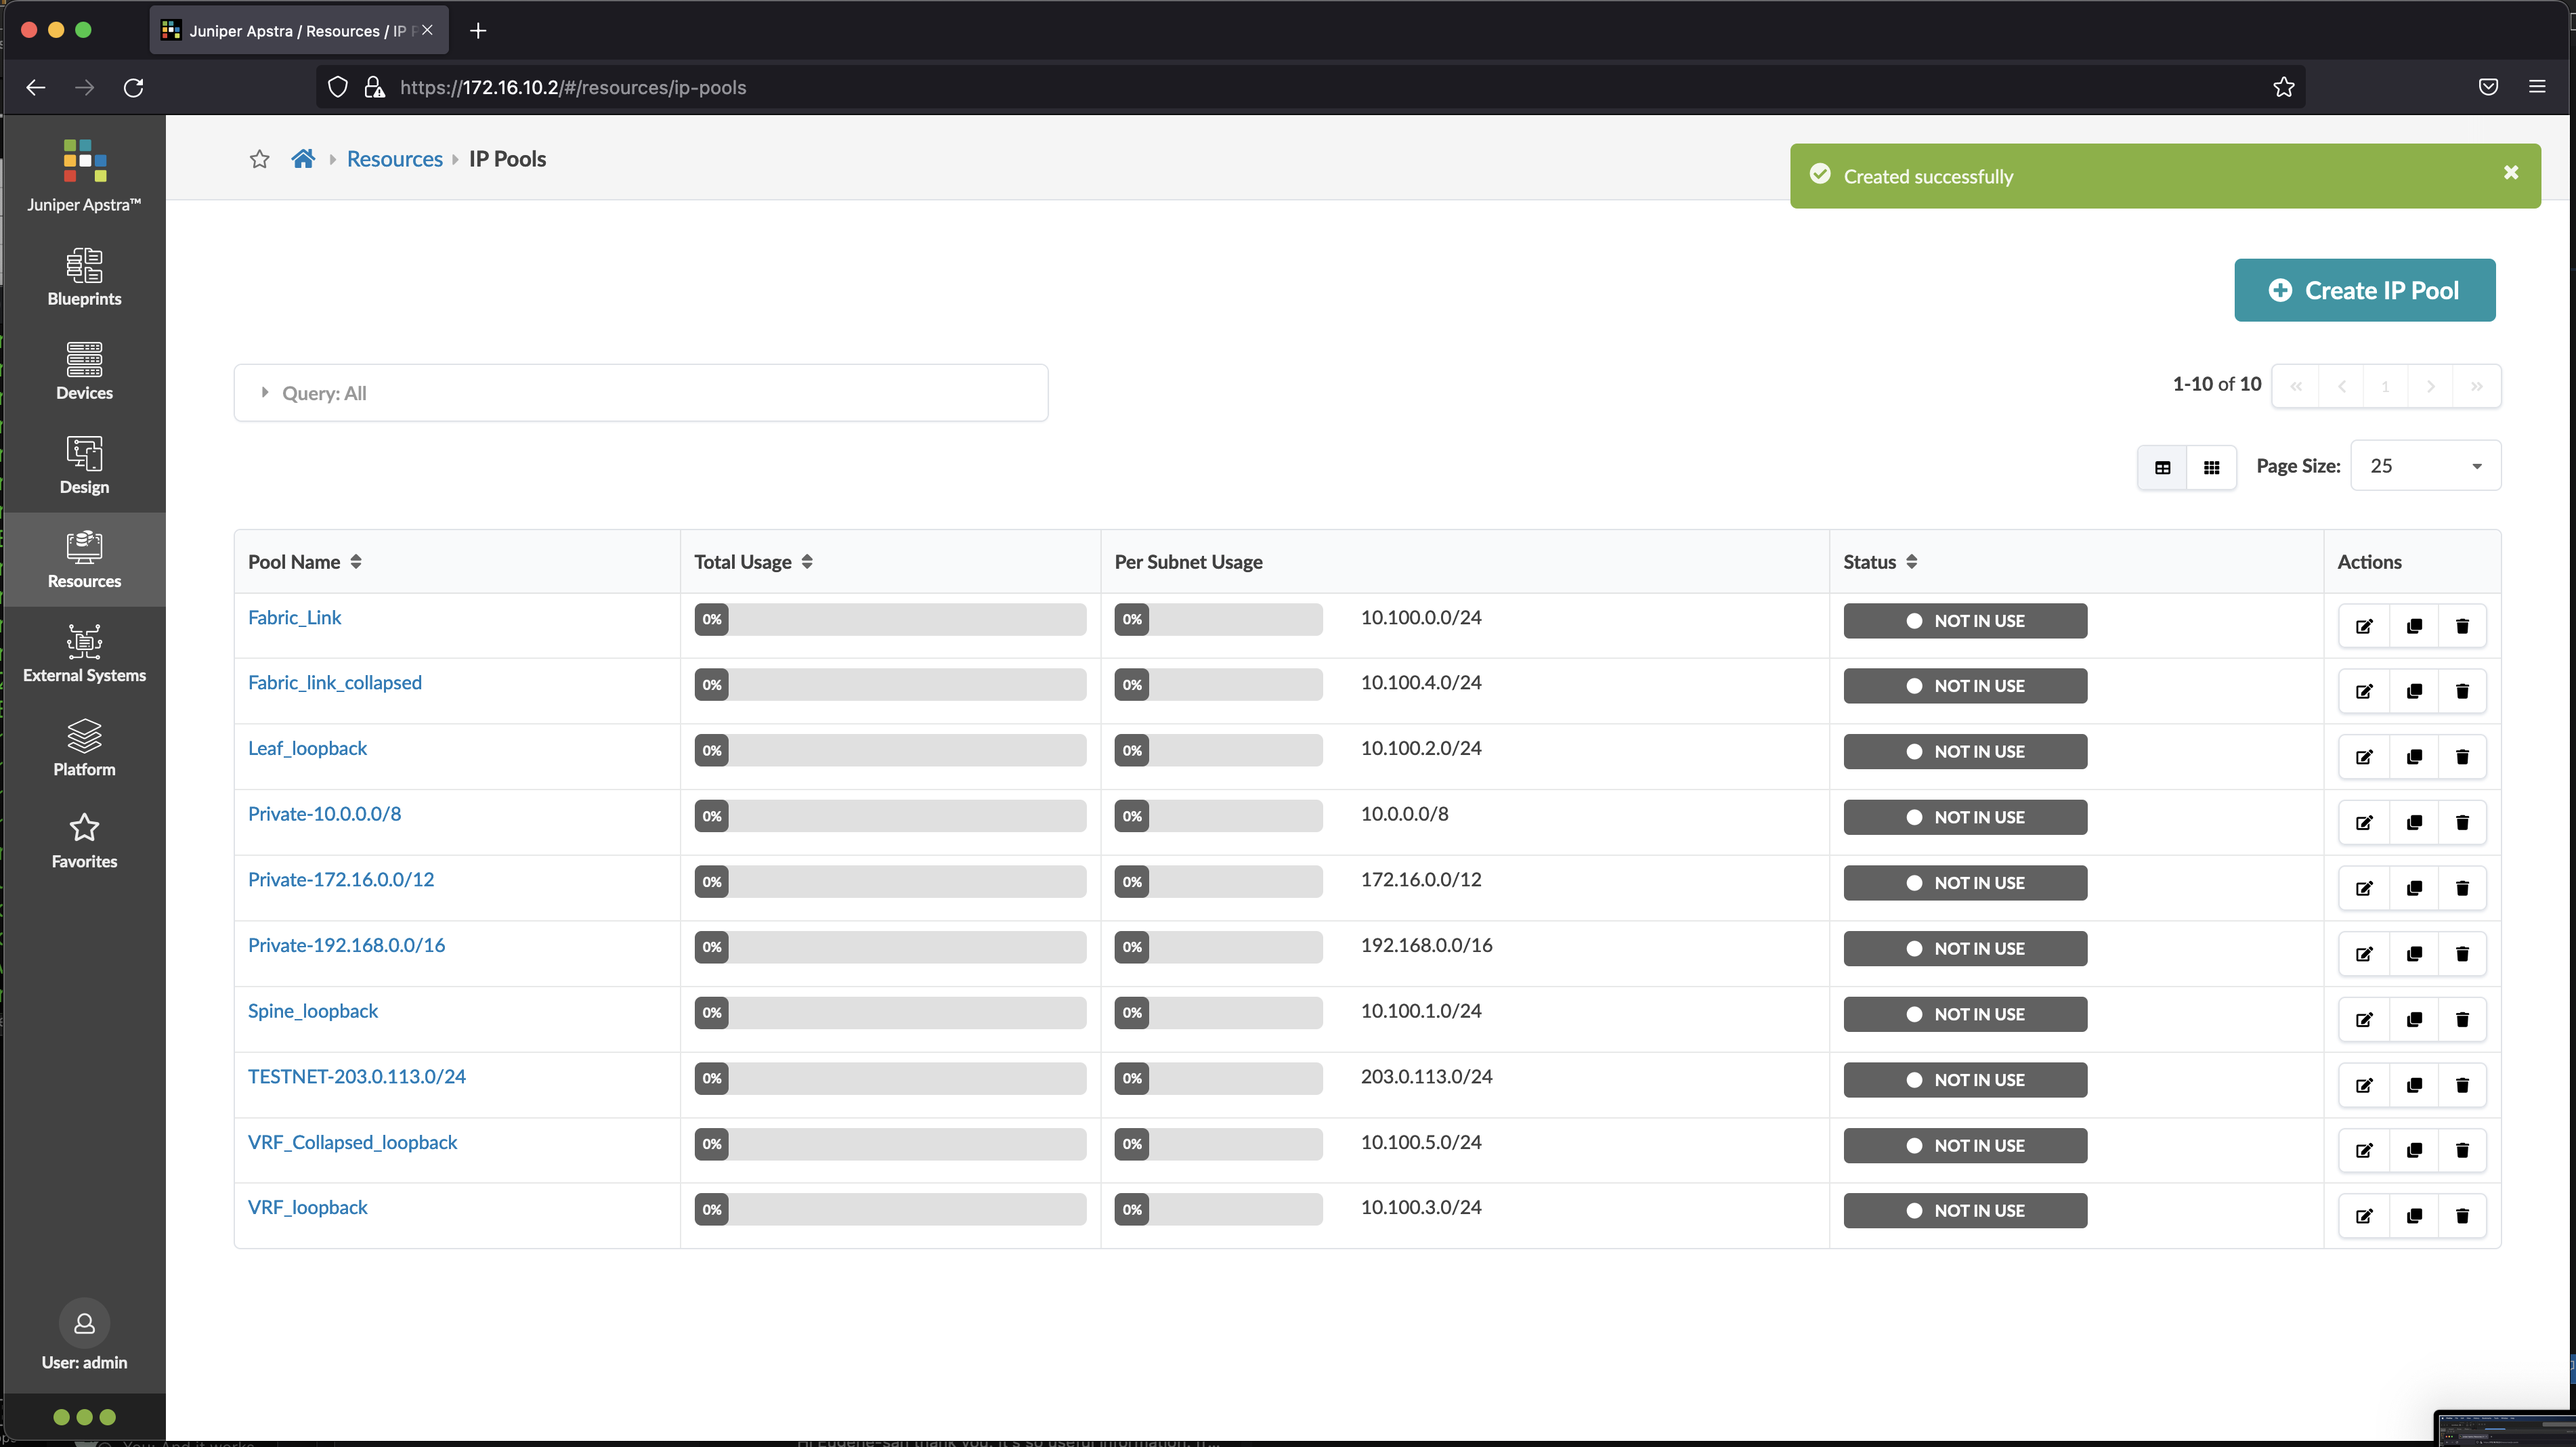
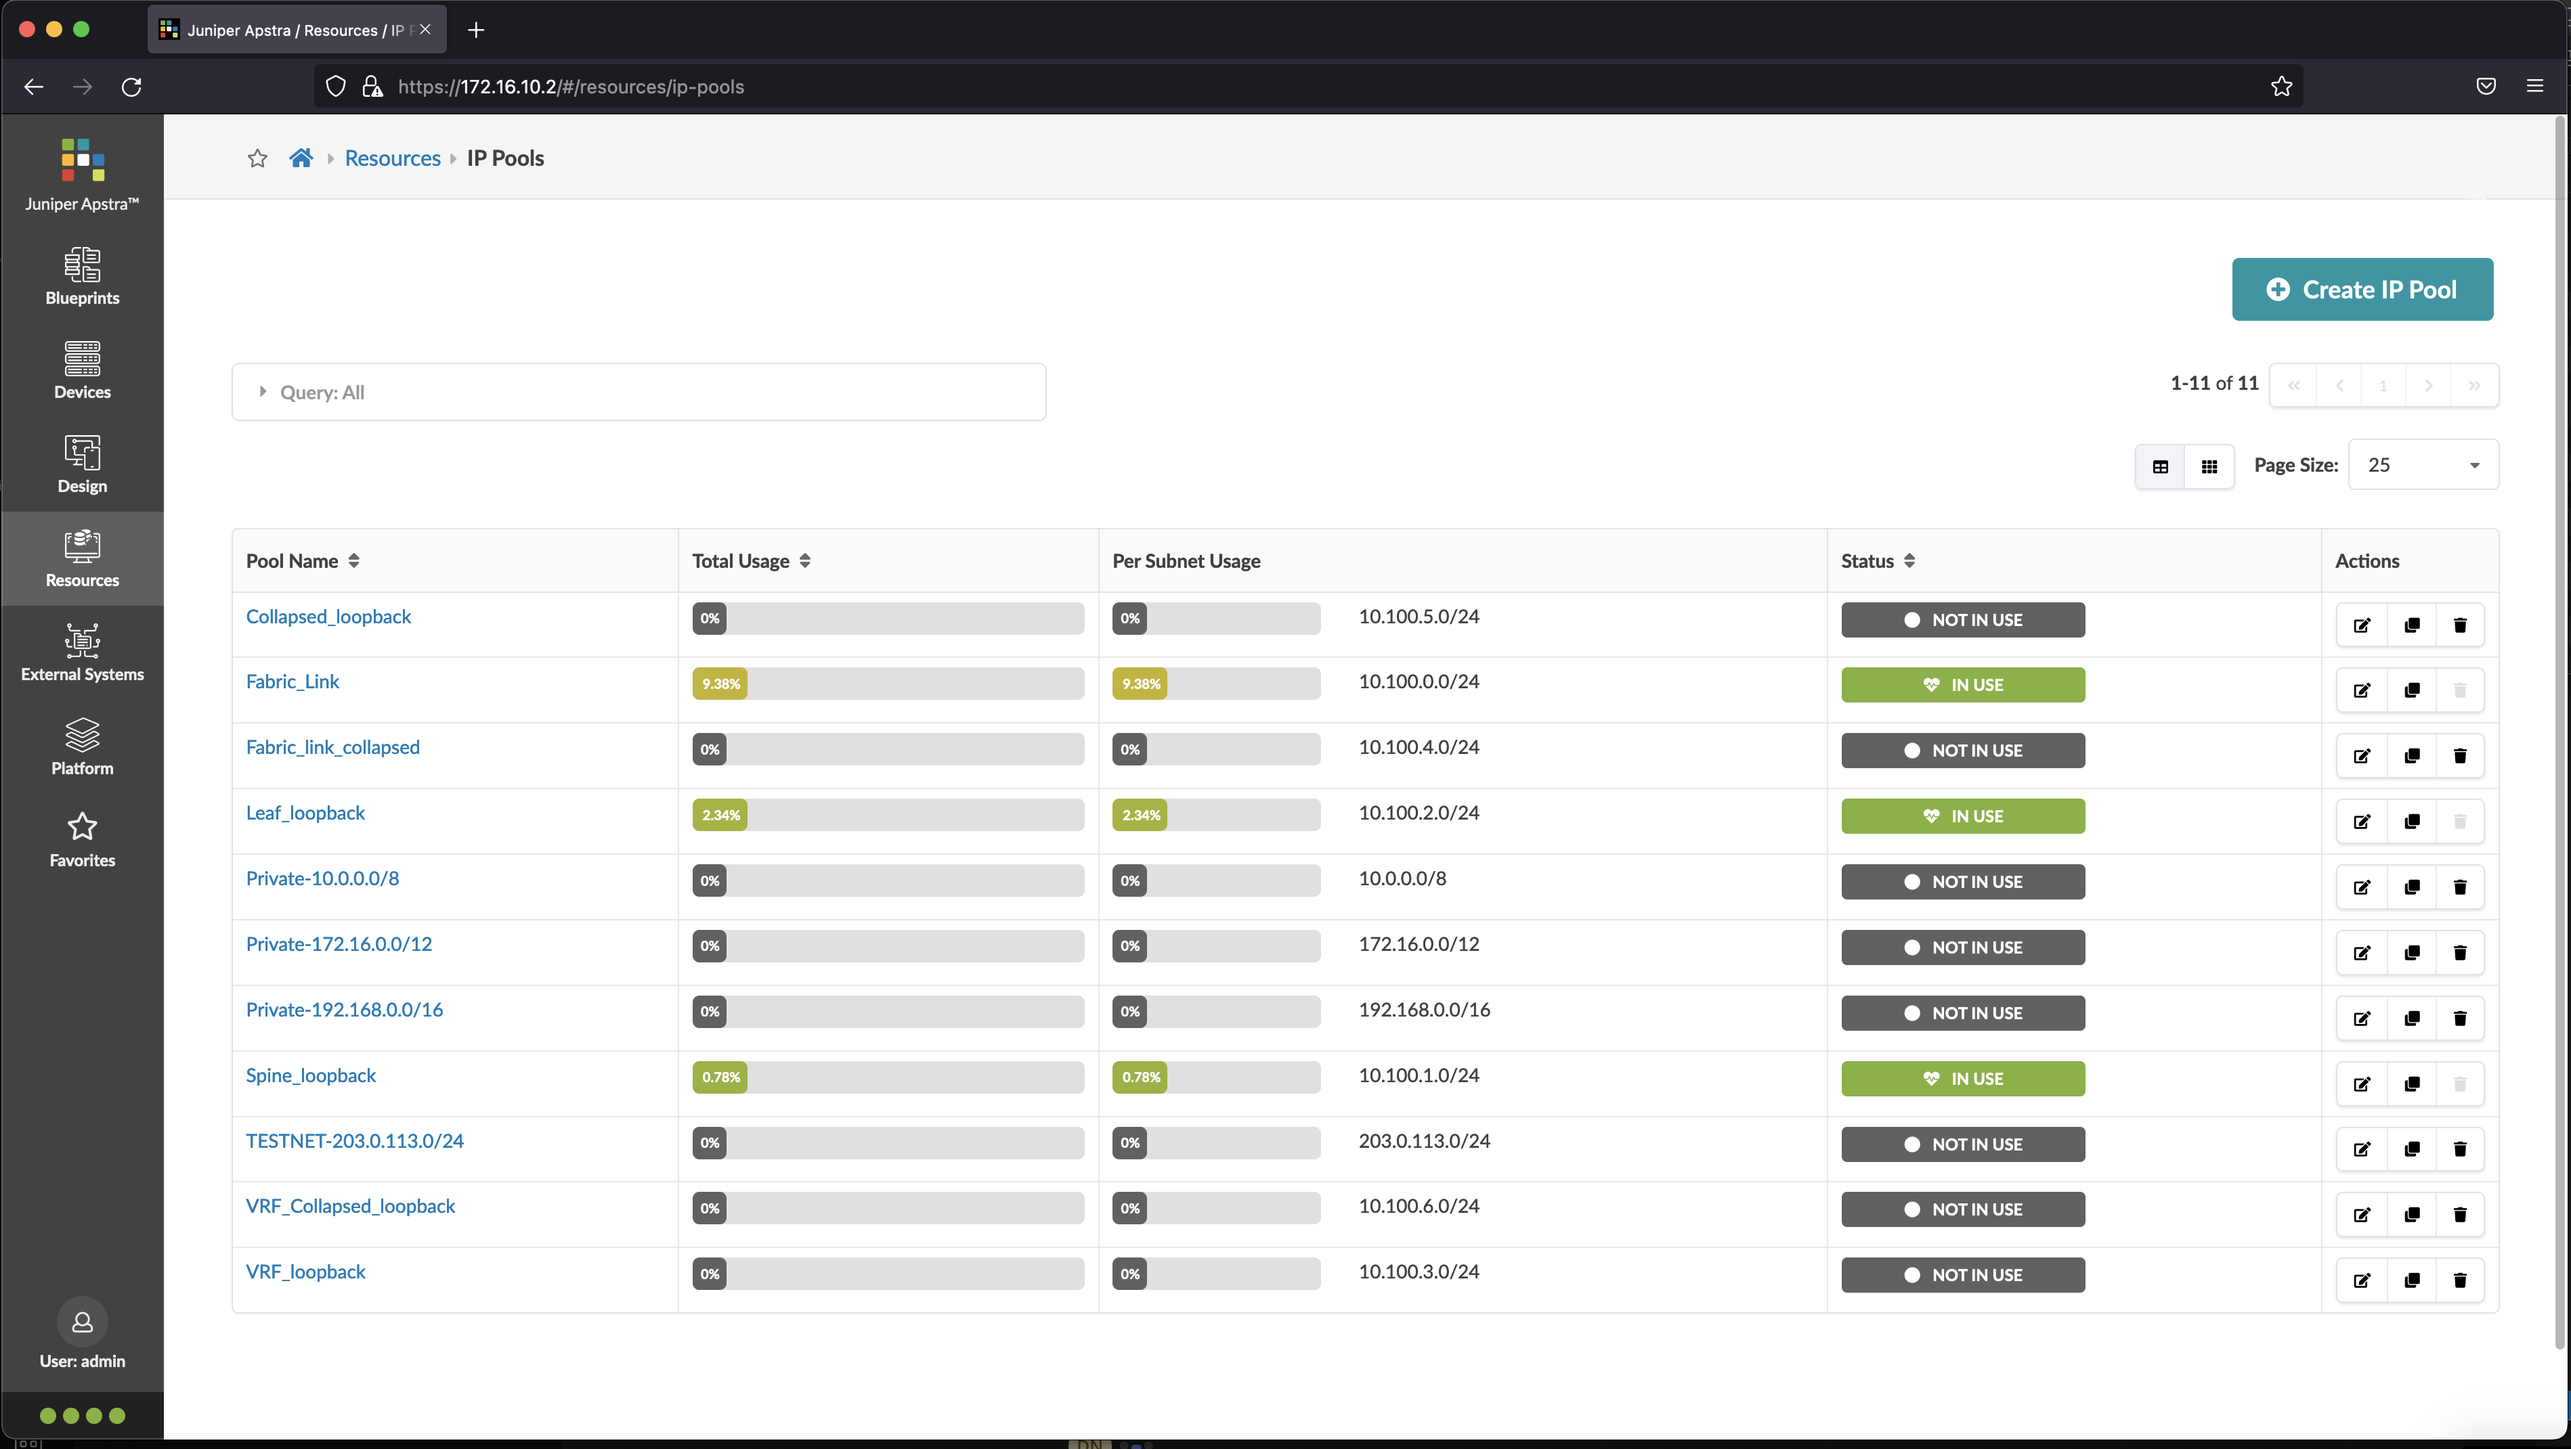
new picture

diff --git a/Lab/dc_with_vEX/LabExercise/lab3.md b/Lab/dc_with_vEX/LabExercise/lab3.md
@@ -69,14 +69,21 @@ In this lab exercise, the following object will be created:
 
 13. Click **Create IP Pool**
 14. Enter the following parameters
-    - Name: VRF_Collapsed_loopback
+    - Name: Collapsed_loopback
     - Subnets: 10.100.5.0/24
 
-    ![lab3_pic1.png](images/lab3_pic10.png)
+    ![lab3_pic1.png](images/lab3_pic10a.png)
+
+15. Click **Create IP Pool**
+16. Enter the following parameters
+    - Name: VRF_Collapsed_loopback
+    - Subnets: 10.100.6.0/24
+
+    ![lab3_pic1.png](images/lab3_pic10b.png)
     
 
 
-15. Verify that six IP pools been created
+16. Verify that seven IP pools been created
     ![lab3_pic4.png](images/lab3_pic11.png)
 
 ## Creating IPv6 Pools
